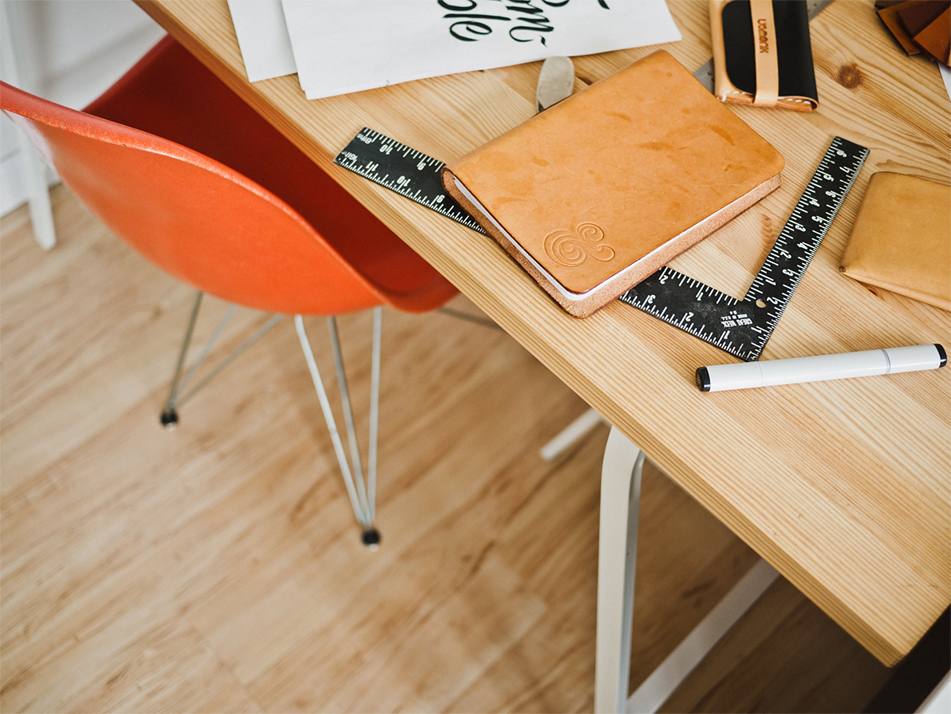
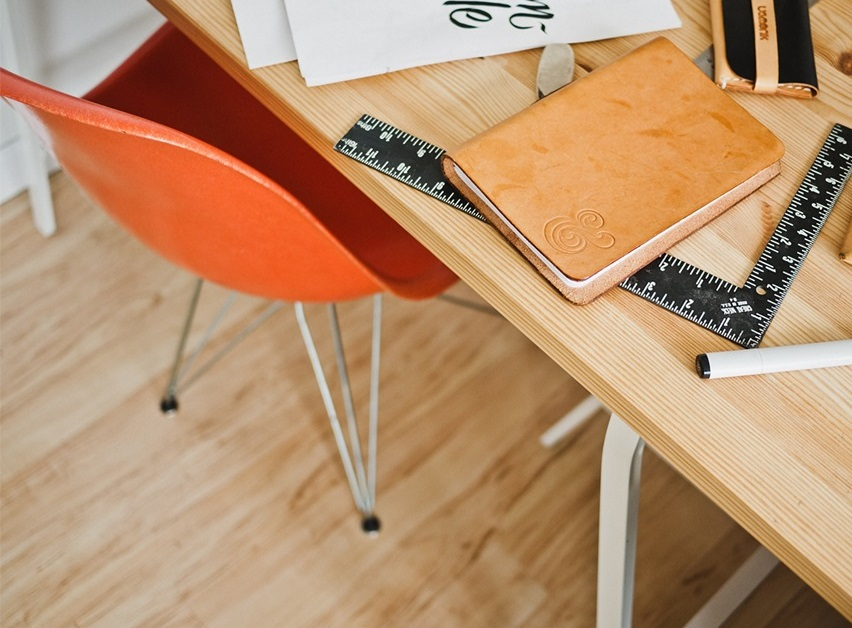
did PP at module-about_us.scss

diff --git a/homework16/index.html b/homework16/index.html
@@ -156,16 +156,13 @@
             </div>
         </article>
     </div>
-    <!-- m-0 -->
     <div class="aboutus">
         <div class="row no-gutters">
             <div class="col-md-6">
-                <img class="" src="img/bckrnd_table.jpg" width="100%" height="100%" alt=""></div>
+                <img class="" src="img/bckrnd_table.jpg" width="850" height="625" alt=""></div>
             <div class="col-md-6">
                 <div class="aboutus-article">
-                    <!-- px-0 -->
                     <h2 class="col-9">ABOUT US</h2>
-                    <!-- p-0 py-3 -->
                     <p class="col-9">Lorem Ipsum is simply dummy text of the printing and typesetting industry. Lorem 
                         Ipsum has been the industry's standard dummy text ever since the 1500s, when an 
                         unknown printer took a galley of type and scrambled it to make a type specimen 
@@ -174,8 +171,7 @@
                         with desktop publishing software like Aldus PageMaker including versions of Lorem 
                         Ipsum
                     </p>
-                    <!-- px-3 -->
-                    <button type="button" class="col-auto btn btn-primary" data-toggle="button" aria-pressed="false" autocomplete="off">READ MORE</button>            
+                    <button type="button" class="btn btn-primary" data-toggle="button" aria-pressed="false" autocomplete="off">READ MORE</button>            
                 </div>
             </div>    
         </div>
@@ -406,7 +402,7 @@
                     </div>
                 </div>
                 <!-- px-5 -->
-                <button type="submit" class="col-auto btn btn-primary">SUBSCRIBE NOW</button>
+                <button type="submit" class="btn btn-primary">SUBSCRIBE NOW</button>
             </form>
             <!-- py-5 my-3 -->
             <div class="row flex-column address">

diff --git a/homework16/scss/components/_module-about_us.scss b/homework16/scss/components/_module-about_us.scss
@@ -2,13 +2,23 @@
 .aboutus {
     color: white;
     background: $bckrnd-hightlight;
-    &-article {
-    margin-left: 4rem;
+    h2 {
+        font-weight: bolder;
     }
-    p {
-        line-height: 1rem;
+    &-article {
+    margin-top: 160px;
+    margin-left: 4rem;
+        p {
+            margin-top: 18px; 
+            padding-right: 0;
+            font-size: 1rem;
+            line-height: 1.5rem;
+            letter-spacing: .3px;
+        }
     }
     button {
-        border: 2px solid $primary;
+        margin: 13px 0 0 16px;
+        padding: 10px 31px;
+        border: 1px solid #e7ad48;
     }
 }

diff --git a/homework16/css/style.css b/homework16/css/style.css
@@ -7325,14 +7325,24 @@ p {
   color: white;
   background: #ffc155;
 }
+.aboutus h2 {
+  font-weight: bolder;
+}
 .aboutus-article {
+  margin-top: 160px;
   margin-left: 4rem;
 }
-.aboutus p {
-  line-height: 1rem;
+.aboutus-article p {
+  margin-top: 18px;
+  padding-right: 0;
+  font-size: 1rem;
+  line-height: 1.5rem;
+  letter-spacing: .3px;
 }
 .aboutus button {
-  border: 2px solid #ffc155;
+  margin: 13px 0 0 16px;
+  padding: 10px 31px;
+  border: 1px solid #e7ad48;
 }
 
 .price {
